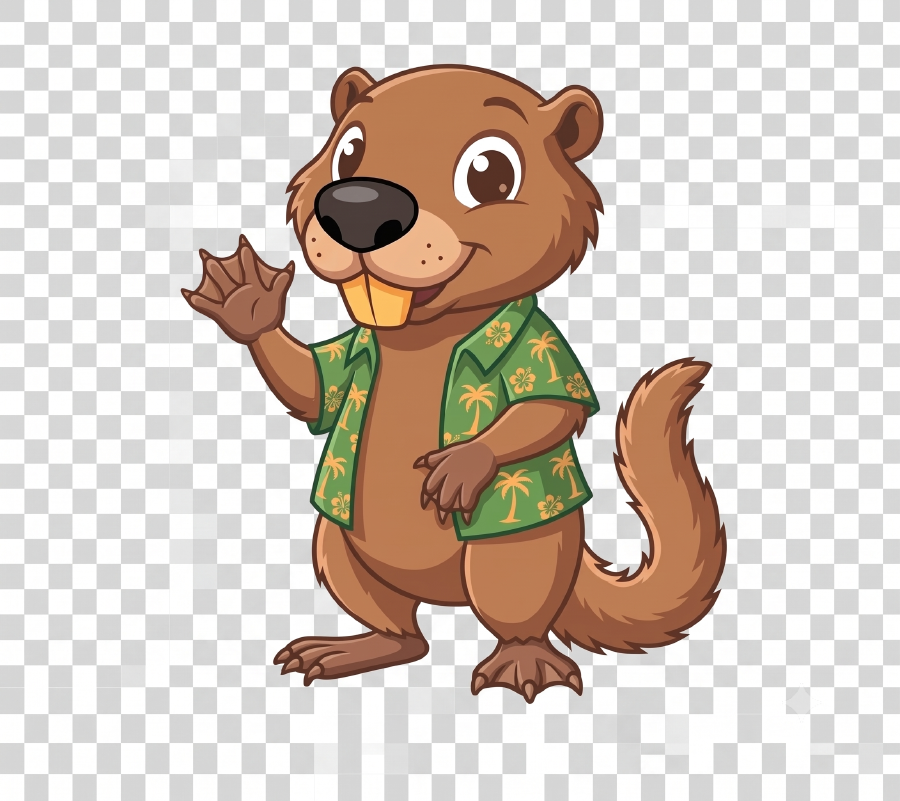
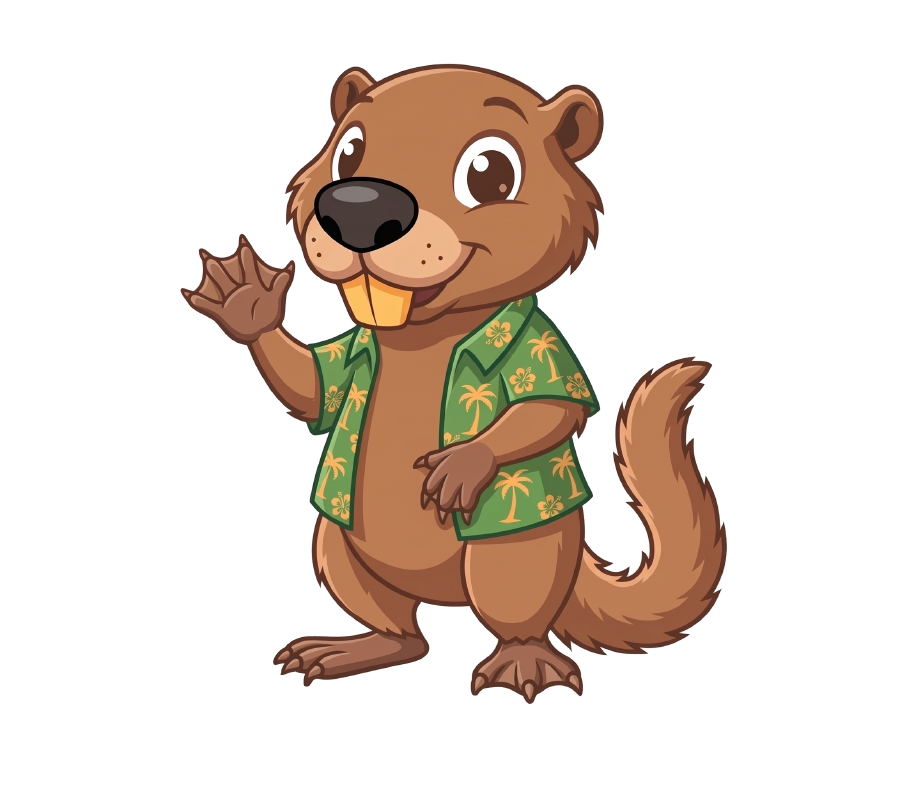
Fix home mascot transparency (flood-fill) + asset caching
The uploaded image had a checkerboard baked in as opaque pixels (not real
transparency). Flood-fill the background from the edges to make it truly
transparent while preserving interior whites (full eyes), then downscale.

Also fix stale assets: stable-named public files were cached for 7 days, so
updates didn't show. Set them to revalidate (max-age=0, must-revalidate) and
add a ?v=2 cache-bust on mascot references (Mascot, nav, footer, favicon).

Claude-Session: https://claude.ai/code/session_01FF4DZxmHgET9k7kPFZfrKx

diff --git a/website/src/components/Footer.jsx b/website/src/components/Footer.jsx
@@ -11,7 +11,7 @@ export default function Footer() {
     <footer className="footer">
       <div className="wrap footer__inner">
         <div className="footer__brand">
-          <img src="/mascots/piscina.png" alt="" aria-hidden="true" className="footer__mascot" />
+          <img src="/mascots/piscina.png?v=2" alt="" aria-hidden="true" className="footer__mascot" />
           <div>
             <span className="brand__word footer__word">
               Nutry<span className="brand__word-accent">World</span>

diff --git a/website/src/components/Nav.jsx b/website/src/components/Nav.jsx
@@ -13,7 +13,7 @@ export default function Nav() {
     <header className="nav">
       <div className="nav__inner wrap">
         <Link to="/" className="brand" onClick={() => setOpen(false)}>
-          <img className="brand__mark" src="/mascots/home.png" alt="" aria-hidden="true" />
+          <img className="brand__mark" src="/mascots/home.png?v=2" alt="" aria-hidden="true" />
           <span className="brand__word">
             Nutry<span className="brand__word-accent">World</span>
           </span>

diff --git a/website/src/components/Mascot.jsx b/website/src/components/Mascot.jsx
@@ -6,7 +6,7 @@ export default function Mascot({ name, alt, size = "lg", float = true, className
       <span className="mascot__halo" aria-hidden="true" />
       <img
         className="mascot__img"
-        src={`/mascots/${name}.png`}
+        src={`/mascots/${name}.png?v=2`}
         alt={alt}
         loading="lazy"
         decoding="async"

diff --git a/website/index.html b/website/index.html
@@ -2,7 +2,7 @@
 <html lang="it">
   <head>
     <meta charset="UTF-8" />
-    <link rel="icon" type="image/png" href="/mascots/home.png" />
+    <link rel="icon" type="image/png" href="/mascots/home.png?v=2" />
     <meta name="viewport" content="width=device-width, initial-scale=1.0" />
     <meta
       name="description"
